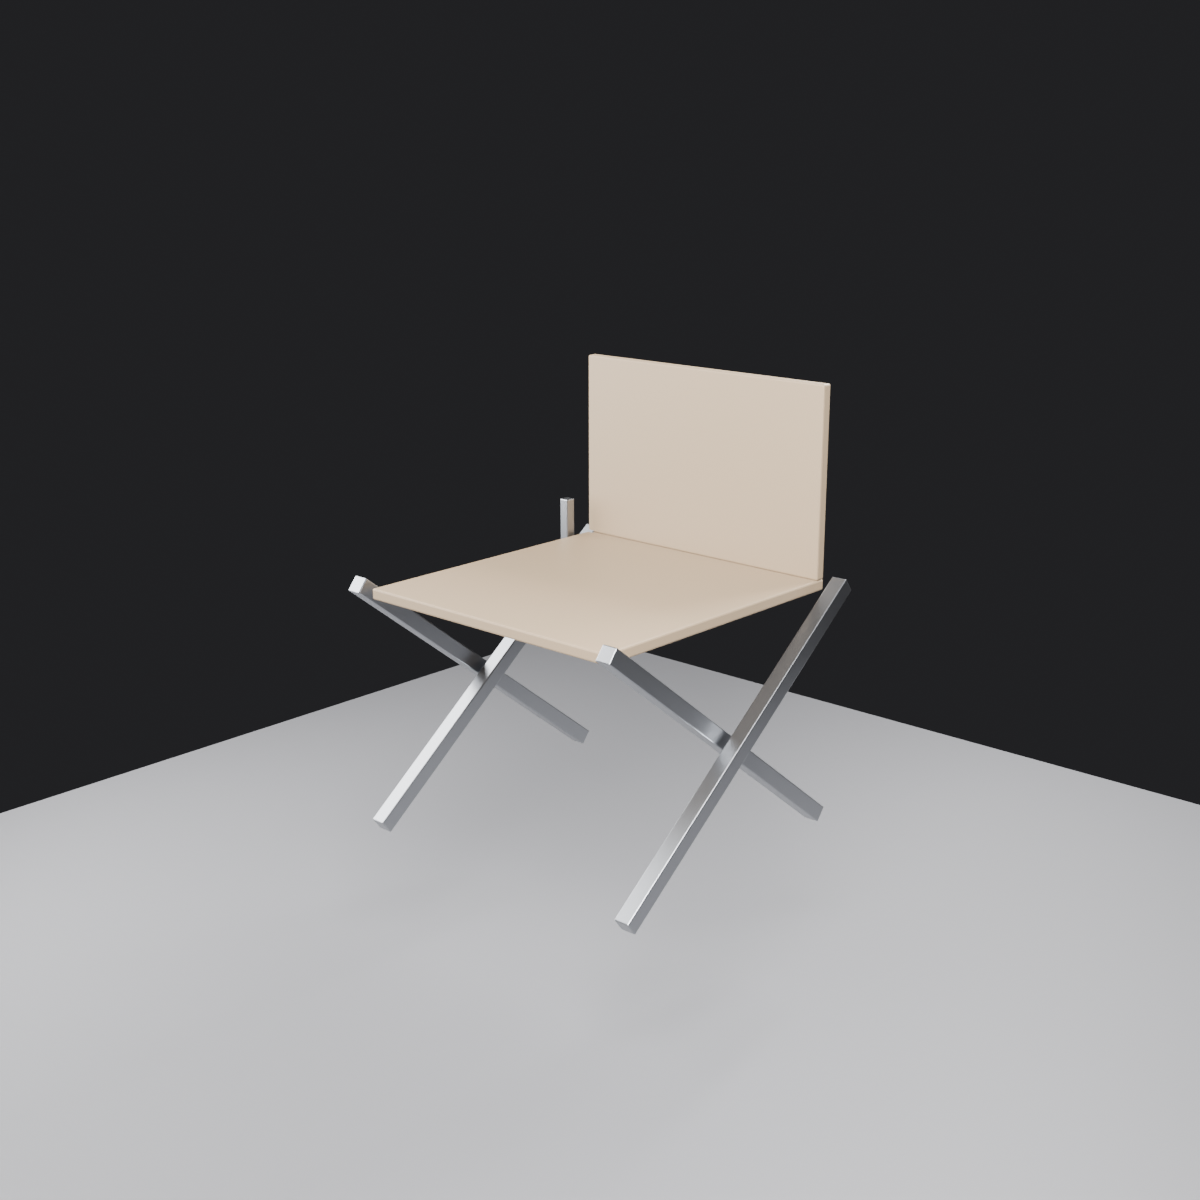
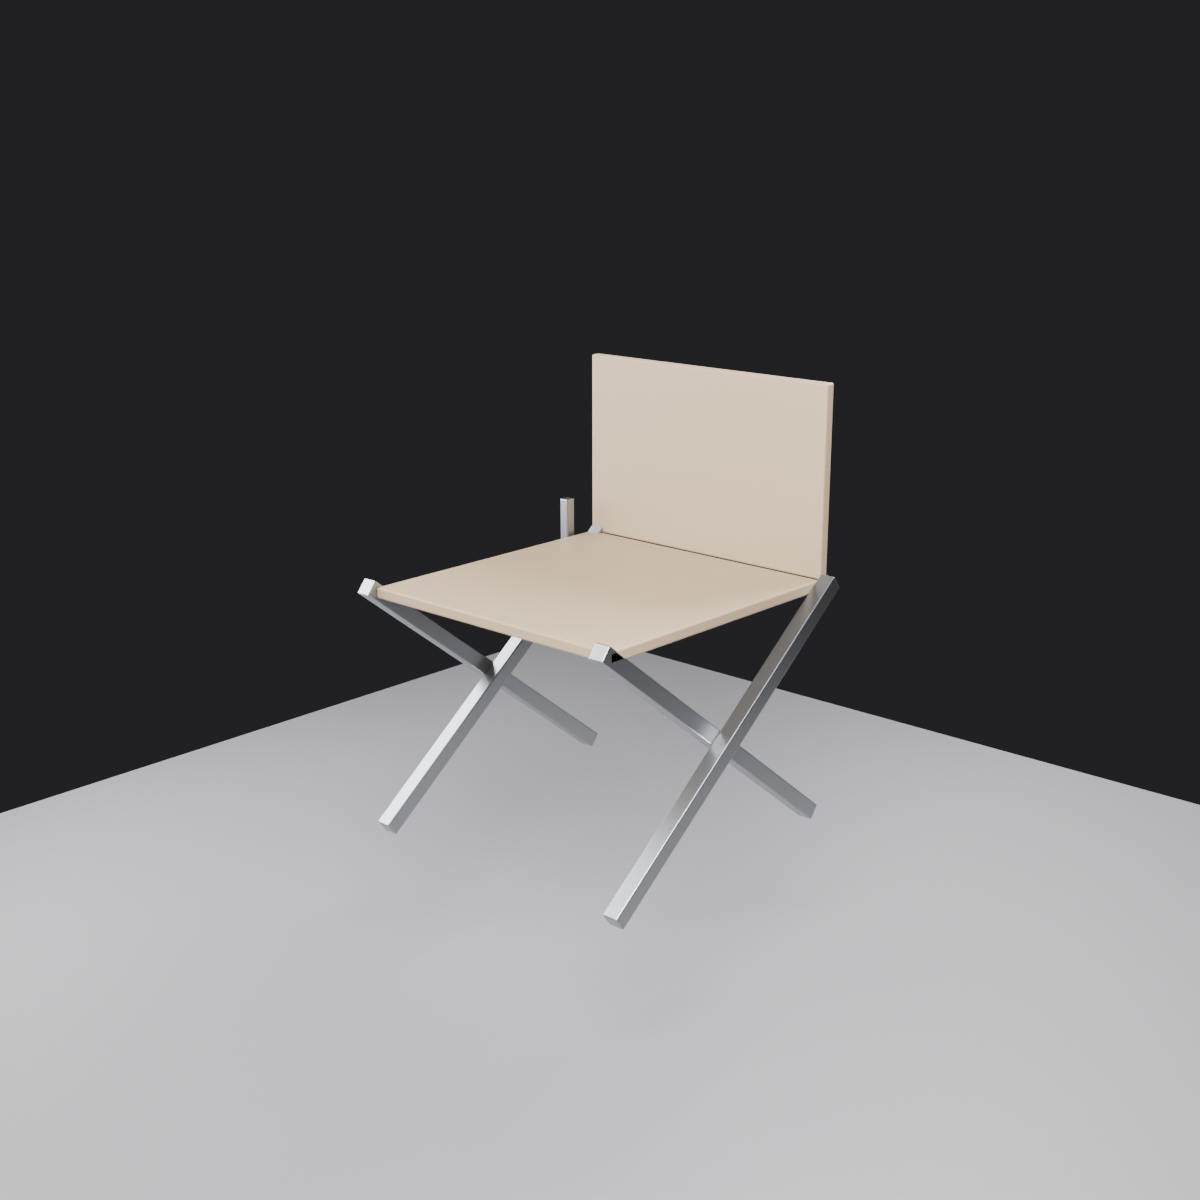
auto sync 2026-11-26 01:16:48

diff --git a/tasks/cua/folding-chair/authoring/build_chair.py b/tasks/cua/folding-chair/authoring/build_chair.py
@@ -105,24 +105,24 @@ def material(name, color, rough=0.5, metal=0.0):
 def build():
     root = empty("chair_root", (0, 0, 0))
     hinges, bars = {}, {}
-    for side, x in (("l", -W / 2 + BAR_T / 2), ("r", W / 2 - BAR_T / 2)):
+    for side, x in (("l", -W / 2 + 0.02 + BAR_T / 2), ("r", W / 2 - 0.02 - BAR_T / 2)):
         h = empty(f"hinge_0{1 if side == 'l' else 2}", (x, 0.0, HINGE_Z), root)
         hinges[side] = h
         a = bar(f"lower_leg_{side}_a", h, -ALPHA, BAR_LEN)
         b = bar(f"lower_leg_{side}_b", h, +ALPHA, BAR_LEN)
-        a.location.x += 0.02
-        b.location.x -= 0.02
+        a.location.x += 0.015
+        b.location.x -= 0.015
         bars[side] = (a, b)
 
     # seat: 0.62 x 0.58, top at 0.45; pivots at its rear edge on bar A's top
-    seat = box("seat", (0, 0, SEAT_Z - PANEL_T / 2), (W - 2 * BAR_T - 0.01, D, PANEL_T), 0.003)
-    hinge3 = empty("hinge_03", (-W / 2 + BAR_T / 2, D / 2, SEAT_Z - PANEL_T), bars["l"][0])
+    seat = box("seat", (0, 0, SEAT_Z - PANEL_T / 2), (W - 2 * BAR_T - 0.01, D - 0.02, PANEL_T), 0.003)
+    hinge3 = empty("hinge_03", (-W / 2 + 0.02 + BAR_T / 2, D / 2 - 0.01, SEAT_Z - PANEL_T), bars["l"][0])
     parent_keep(seat, hinge3)
 
     # back: stands on the seat's rear edge, pivots there
     back = box("back", (0, 0, 0), (W - 2 * BAR_T - 0.01, PANEL_T, H - SEAT_Z - 0.02), 0.003)
-    back.location = (0, D / 2 - PANEL_T / 2, (SEAT_Z + H) / 2 - 0.01)
-    hinge4 = empty("hinge_04", (0, D / 2, SEAT_Z + PANEL_T + 0.005), seat)
+    back.location = (0, D / 2 - 0.01 + PANEL_T / 2, (SEAT_Z + H) / 2 - 0.01)
+    hinge4 = empty("hinge_04", (0, D / 2 - 0.01, SEAT_Z + PANEL_T + 0.005), seat)
     parent_keep(back, hinge4)
 
     # lock pin: only shown in the locked state
